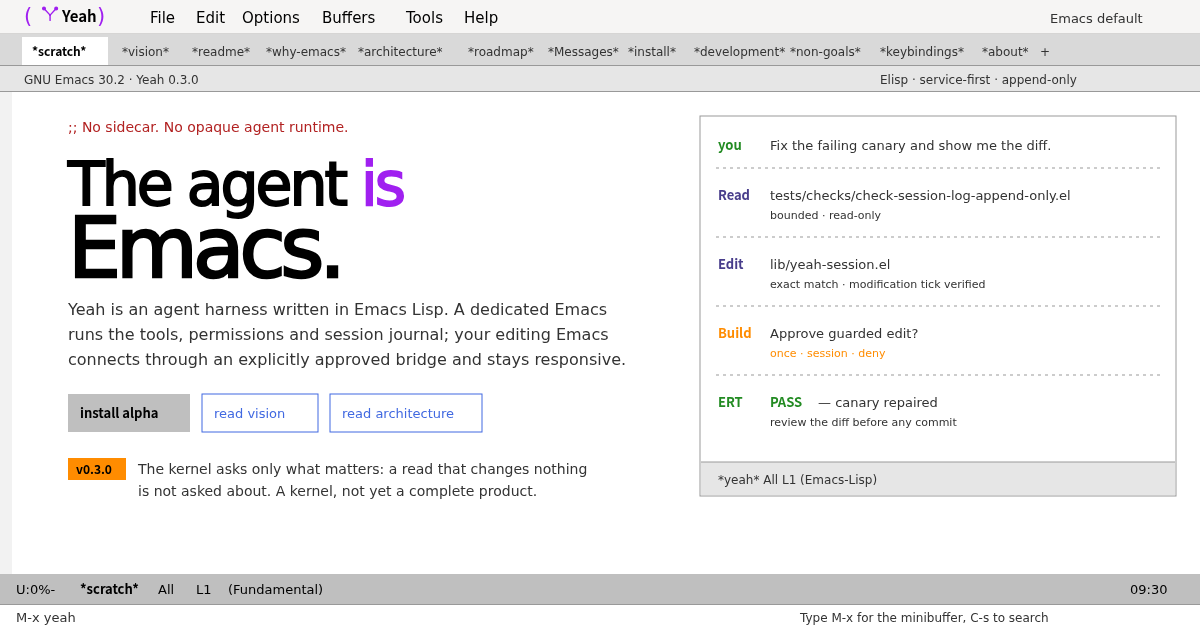
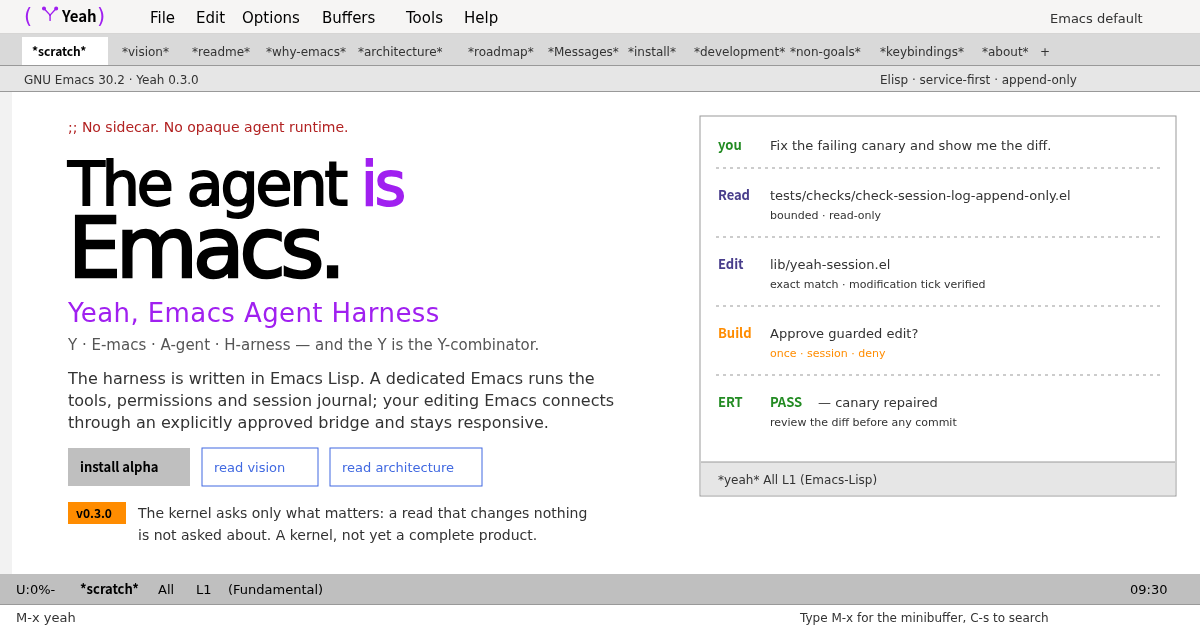
fix(site): the preview says the name of the thing
The name of Yeah is a recursive acronym: Yeah, Emacs Agent Harness —
Y, E-macs, A-gent, H-arness.  The expansion of the name is the name;
the Y-combinator belongs to the sentence that explains the Y and is
not the expansion of the acronym.

The metadata of the site said nothing about the name: the title of the
page and the title of the card were only "Yeah — The agent is Emacs".
A card of the site therefore said nothing about the name it is a card
of, and the card a reader sent showed an expansion the name never had
("Yeah — Y-combinator, Emacs Agent Harness", the deploy of the 11th of
November; 4e3081c corrected that text on the 12th, and the redesign
dropped the name from the title altogether).  The social platforms
cache a preview by its URL, so the wrong card outlived the deploy that
fixed the text.

The title of the page, the title of the card and the card itself carry
the name now, with the reading of it: "Y · E-macs · A-gent · H-arness
— and the Y is the Y-combinator."  The hero of the page carries the
same two lines, so the picture of the card and the page say the same
thing.  The picture of the card is named by an absolute URL with a
version query, because the platforms cache a picture by its URL: a new
card is a new picture.

Checked in Chromium over the DevTools protocol: the metadata as a
crawler reads it, the hero in both themes, the contrast of the new
lines (5.3:1 and 12.63:1 in the light theme, 9.46:1 and 7.28:1 in the
[…]

Changed region(s): [[0.0308, 0.4825, 0.5242, 0.8746]]

diff --git a/site/index.html b/site/index.html
@@ -3,17 +3,26 @@
 <head>
 <meta charset="utf-8">
 <meta name="viewport" content="width=device-width, initial-scale=1">
-<title>Yeah — The agent is Emacs</title>
-<meta name="description" content="Yeah is an agent harness written in Emacs Lisp. A dedicated Emacs runs the tools, permissions and append-only journal; your editor connects through an explicitly approved bridge.">
+<title>Yeah, Emacs Agent Harness — the agent is Emacs</title>
+<meta name="description" content="Yeah, Emacs Agent Harness: an agent harness written in Emacs Lisp. A dedicated Emacs runs the tools, permissions and append-only journal; your editor connects through an explicitly approved bridge.">
 <meta name="color-scheme" content="light dark">
 <meta name="theme-color" content="#d9d9d9">
 
+<!-- The preview of the site says the name the way the name reads: Yeah is
+     Y, E-macs, A-gent, H-arness.  The Y-combinator stays in the sentence
+     that explains the Y; it is not the expansion of the acronym. -->
 <meta property="og:type" content="website">
-<meta property="og:title" content="Yeah — The agent is Emacs">
-<meta property="og:description" content="An inspectable agent harness written in Emacs Lisp. Live buffers, permissioned tools, durable events, and a fixed point worth reaching.">
-<meta property="og:image" content="assets/og.png">
+<meta property="og:url" content="https://11111000000.github.io/yeah/">
+<meta property="og:title" content="Yeah, Emacs Agent Harness">
+<meta property="og:description" content="The Y is the Y-combinator: the agent runs inside Emacs. Emacs is not a client to an agent — it is the agent's runtime.">
+<meta property="og:image" content="https://11111000000.github.io/yeah/assets/og.png?v=2">
+<meta property="og:image:width" content="1200">
+<meta property="og:image:height" content="630">
+<meta property="og:image:alt" content="A GNU Emacs 30.2 frame in its default light theme: the menu bar of 30.2, a tab bar of window configurations, a buffer with the words The agent is Emacs and the name Yeah, Emacs Agent Harness, and the mode line with the echo area.">
 <meta name="twitter:card" content="summary_large_image">
-<meta name="twitter:image" content="assets/og.png">
+<meta name="twitter:title" content="Yeah, Emacs Agent Harness">
+<meta name="twitter:description" content="The Y is the Y-combinator: the agent runs inside Emacs. Emacs is not a client to an agent — it is the agent's runtime.">
+<meta name="twitter:image" content="https://11111000000.github.io/yeah/assets/og.png?v=2">
 
 <link rel="icon" href="assets/favicon.svg" type="image/svg+xml">
 <link rel="stylesheet" href="styles.css">
@@ -210,8 +219,10 @@
           <div class="hero__copy">
             <p class="comment">;; No sidecar. No opaque agent runtime.</p>
             <h1 id="hero-title">The agent <span class="face-keyword">is</span><br>Emacs.</h1>
+            <p class="hero__name">Yeah, Emacs Agent Harness</p>
+            <p class="hero__reading">Y · E-macs · A-gent · H-arness — and the Y is the Y-combinator.</p>
             <p class="lead">
-              Yeah is an agent harness written in Emacs Lisp. A dedicated Emacs runs
+              The harness is written in Emacs Lisp. A dedicated Emacs runs
               the tools, permissions and session journal; your editing Emacs connects
               through an explicitly approved bridge and stays responsive.
             </p>

diff --git a/site/styles.css b/site/styles.css
@@ -603,6 +603,24 @@ code {
   line-height: 1.72;
 }
 
+/* The name of the thing, in the Purple of the font-lock faces — the same
+   colour as the Y of the wordmark in the menu bar. */
+.hero__name {
+  margin-top: 1.15rem;
+  color: var(--fl-keyword);
+  font-size: 1.22rem;
+  font-weight: 700;
+  letter-spacing: -0.012em;
+}
+
+.hero__reading {
+  margin-top: 0.35rem;
+  color: var(--face-prose);
+  font-family: var(--font-mono);
+  font-size: 0.82rem;
+  line-height: 1.6;
+}
+
 .hero__actions {
   display: flex;
   flex-wrap: wrap;

diff --git a/docs/SITE-DESIGN.md b/docs/SITE-DESIGN.md
@@ -264,6 +264,16 @@ like a picture of Emacs rather than like Emacs.
     light theme, `fg-dim` in the dark one. The `shadow` face is grey50 and
     fails the 4.5:1 contrast on white; `shadow` is for shadows, not for
     text.
+14. **The preview of the site says the name of the thing: `Yeah, Emacs
+    Agent Harness`.** Yeah reads as Y, E-macs, A-gent, H-arness — a
+    recursive acronym. The expansion of the name is the name; the
+    Y-combinator is not the expansion and stays in the sentence that
+    explains the Y. The title of the page, the title of the card and the
+    card itself all carry that name, and the card carries the reading of
+    it: `Y · E-macs · A-gent · H-arness — and the Y is the Y-combinator.`
+    The image of the card is named by an absolute URL with a version
+    query, because the social platforms cache a picture by its URL: when
+    the card changes, the PNG is rendered again and the query is bumped.
 
 ## The verification
 
@@ -277,7 +287,7 @@ the layout at 420 and 1440 pixels, the
 console, the failed requests, the focus ring and the contrast of every text
 role. The screenshots were read back and looked at.
 
-The checks found fifteen defects, all of them fixed.
+The checks found sixteen defects, all of them fixed.
 
 **The first round, six:**
 
@@ -338,6 +348,24 @@ The checks found fifteen defects, all of them fixed.
   `(unless (commandp function) (error "`%s' is not a valid command name"))`,
   and the installed Emacs 30.2 was asked for the exact wording:
   `‘nope’ is not a valid command name`. The site says that now.
+
+**The third round, one, and it was not found by a check but by a reader:**
+
+- **The preview of the site did not carry the name of the thing.** The title
+  of the page and the title of the card said only `Yeah — The agent is
+  Emacs`, so a card of the site said nothing about the name it is a card
+  of. Worse, the card a reader sent showed an expansion the name never
+  had: `Yeah — Y-combinator, Emacs Agent Harness`. That text is from the
+  deploy of the 11th of November; the 12th already corrected it
+  (`4e3081c`, "the name was expanded as 'Y-combinator, Emacs Agent
+  Harness', which lost the recursion the name actually has"), and the
+  redesign dropped the name from the title altogether. The social
+  platforms cache a preview by its URL, so the wrong card outlived the
+  deploy that fixed the text. The name is a recursive acronym — Yeah,
+  Emacs Agent Harness — and the title, the card and the card's picture
+  say it now, with the reading of it: `Y · E-macs · A-gent · H-arness —
+  and the Y is the Y-combinator.` The picture of the card is named by an
+  absolute URL with a version query, so that a new card is a new picture.
 
 ## What is still open
 

diff --git a/site/README.md b/site/README.md
@@ -25,6 +25,20 @@ touches `site/` or the workflow itself. The published address is
 To publish it by hand instead, point GitHub Pages at the `main` branch and
 `/site` folder in the repository settings.
 
+## The preview of the site
+
+The title of the page and the title of the social card are the name of the
+thing: **Yeah, Emacs Agent Harness**. Yeah reads as Y, E-macs, A-gent,
+H-arness — a recursive acronym. The Y-combinator is not the expansion of the
+name; it belongs to the sentence that explains the Y (`;; The Y is the
+Y-combinator.`), and it is there that it lives.
+
+The card (`assets/og.png`) is fetched by the social platforms from its URL,
+and they cache it there. The `og:image` and `twitter:image` therefore carry an
+absolute URL with a version query (`?v=2`): **when the card changes, render
+the PNG again and bump the query**, otherwise the old picture keeps being
+served.
+
 ## Design: the default frame of GNU Emacs
 
 The page is not a page styled to look like Emacs; it is a frame, with the
